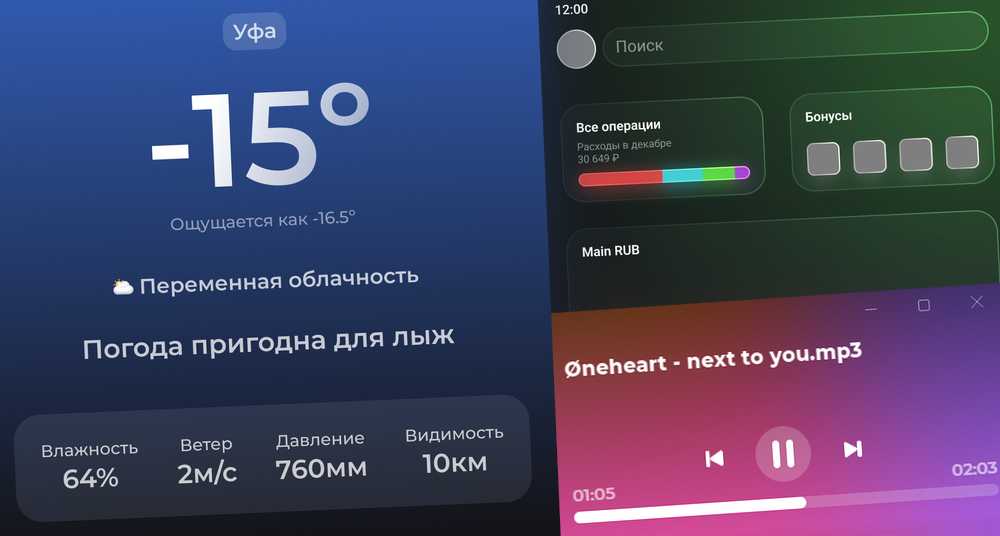
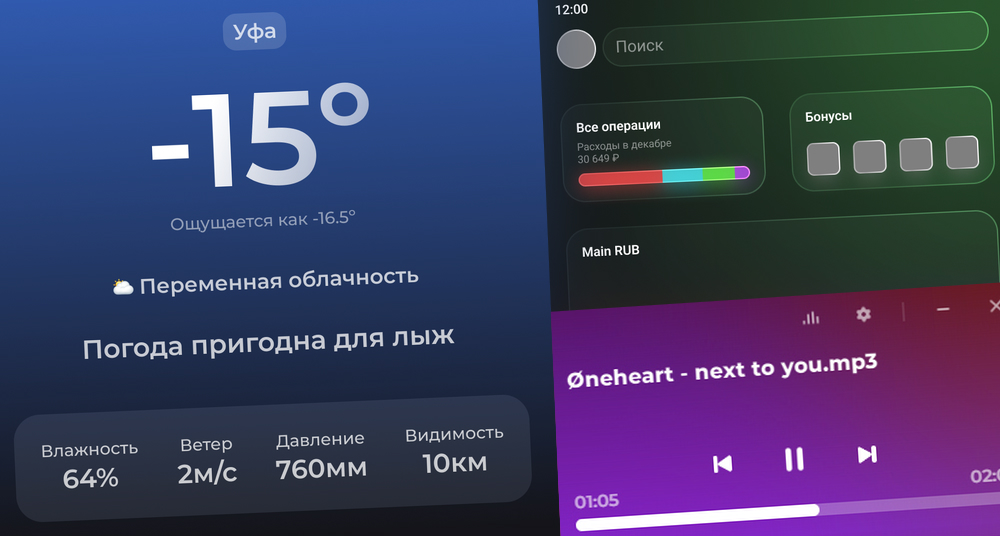
04052024-1613
Fixes:
- fixed sometimes cards don't tilt on mouse hover
- added 3d parallax effect to cards

Changed region(s): [[0.527, 0.5075, 1.0, 1.0]]

diff --git a/index.html b/index.html
@@ -82,29 +82,42 @@
 
 					<a class="bento-card panel btn-ripple tilt" href="https://github.com/immorrtalz/Harmoonic/releases/latest" target="_blank" data-tilt data-tilt-perspective="500">
 						<img loading="lazy" class="bento-card-image" src="./images/projects/harmoonic-screenshot.jpg">
-						<h5 class="bento-card-title gray-gradient">Harmoonic</h5>
-						<p class="bento-card-text second-text" data-translationid="14">Современный минималистичный аудиоплеер</p>
+						<span>
+							<h5 class="bento-card-title gray-gradient">Harmoonic</h5>
+							<p class="bento-card-text second-text" data-translationid="14">Современный минималистичный аудиоплеер</p>
+						</span>
 					</a>
 
 					<a class="bento-card panel btn-ripple tilt" href="https://trirun.evermedia-project.ru" target="_blank" data-tilt data-tilt-perspective="500">
 						<img loading="lazy" class="bento-card-image" src="./images/projects/gameImg-tr.jpg">
-						<h5 class="bento-card-title gray-gradient">TriRun</h5>
-						<p class="bento-card-text second-text" data-translationid="15">Мобильный раннер в космическом сеттинге</p>
+						<span>
+							<h5 class="bento-card-title gray-gradient">TriRun</h5>
+							<p class="bento-card-text second-text" data-translationid="15">Мобильный раннер в космическом сеттинге</p>
+						</span>
 					</a>
 
 					<a class="bento-card panel btn-ripple tilt" href="https://evermedia-project.itch.io/escape-stage" target="_blank" data-tilt data-tilt-perspective="500">
 						<img loading="lazy" class="bento-card-image" src="./images/projects/gameImg-es.jpg">
-						<h5 class="bento-card-title gray-gradient">Escape Stage</h5>
-						<p class="bento-card-text second-text" data-translationid="16">Хоррор-выживание в лаборатории</p>
+						<span>
+							<h5 class="bento-card-title gray-gradient">Escape Stage</h5>
+							<p class="bento-card-text second-text" data-translationid="16">Хоррор-выживание в лаборатории</p>
+						</span>
 					</a>
 
 					<a class="bento-card panel btn-ripple tilt" target="_blank" data-tilt data-tilt-perspective="500">
 						<img loading="lazy" class="bento-card-image" src="./images/projects/placeholder.jpg">
-						<h5 class="bento-card-title gray-gradient">???</h5>
-						<p class="bento-card-text second-text" data-translationid="17">Скоро... или не скоро...</p>
+						<span>
+							<h5 class="bento-card-title gray-gradient">???</h5>
+							<p class="bento-card-text second-text" data-translationid="17">Скоро... или не скоро...</p>
+						</span>
 					</a>
 
 				</div>
+
+				<a class="cccard tilt" data-tilt>
+					<span></span>
+					<span></span>
+				</a>
 
 			</div>
 		</div>
@@ -119,26 +132,34 @@
 
 					<a class="bento-card panel btn-ripple tilt" href="https://t.me/immorrtalz_design" target="_blank" data-tilt data-tilt-perspective="500">
 						<img loading="lazy" class="bento-card-image" src="./images/projects/designImg-banner.jpg">
-						<h5 class="bento-card-title gray-gradient" data-translationid="20">Баннер</h5>
-						<p class="bento-card-text second-text" data-translationid="21">Форумный/рекламный и др.</p>
+						<span>
+							<h5 class="bento-card-title gray-gradient" data-translationid="20">Баннер</h5>
+							<p class="bento-card-text second-text" data-translationid="21">Форумный/рекламный и др.</p>
+						</span>
 					</a>
 
 					<a class="bento-card panel btn-ripple tilt" href="https://t.me/immorrtalz_design" target="_blank" data-tilt data-tilt-perspective="500">
 						<img loading="lazy" class="bento-card-image" src="./images/projects/designImg-ava.jpg">
-						<h5 class="bento-card-title gray-gradient" data-translationid="22">Аватарка</h5>
-						<p class="bento-card-text second-text" data-translationid="23">Для любого профиля</p>
+						<span>
+							<h5 class="bento-card-title gray-gradient" data-translationid="22">Аватарка</h5>
+							<p class="bento-card-text second-text" data-translationid="23">Для любого профиля</p>
+						</span>
 					</a>
 
 					<a class="bento-card panel btn-ripple tilt" href="https://t.me/immorrtalz_design" target="_blank" data-tilt data-tilt-perspective="500">
 						<img loading="lazy" class="bento-card-image" src="./images/projects/designImg-landing.jpg">
-						<h5 class="bento-card-title gray-gradient" data-translationid="24">Лендинг</h5>
-						<p class="bento-card-text second-text" data-translationid="25">Макет небольшого сайта</p>
+						<span>
+							<h5 class="bento-card-title gray-gradient" data-translationid="24">Лендинг</h5>
+							<p class="bento-card-text second-text" data-translationid="25">Макет небольшого сайта</p>
+						</span>
 					</a>
 
 					<a class="bento-card panel btn-ripple tilt" href="https://t.me/immorrtalz_design" target="_blank" data-tilt data-tilt-perspective="500">
 						<img loading="lazy" class="bento-card-image" src="./images/projects/designImg-ui.jpg">
-						<h5 class="bento-card-title gray-gradient">UI</h5>
-						<p class="bento-card-text second-text" data-translationid="26">Макет интерфейса приложения</p>
+						<span>
+							<h5 class="bento-card-title gray-gradient">UI</h5>
+							<p class="bento-card-text second-text" data-translationid="26">Макет интерфейса приложения</p>
+						</span>
 					</a>
 
 				</div>
@@ -165,7 +186,7 @@
 						<a class="footer-1-inner-block-item second-text" data-translationid="35">Privacy Policy</a>
 						<a class="footer-1-inner-block-item second-text" data-translationid="36">Terms & Conditions</a>
 						<a class="footer-1-inner-block-item second-text" href="https://t.me/immorrtalz" target="_blank" data-translationid="29">* Заказать дизайн</a>
-						<a class="footer-1-inner-block-item second-text" href="./donate" target="_blank" data-translationid="50">❤Поддержать⚡</a>
+						<a class="footer-1-inner-block-item second-text" href="./donate" data-translationid="50">❤Поддержать⚡</a>
 					</div>
 
 					<div class="footer-1-inner-block">

diff --git a/donate.html b/donate.html
@@ -82,26 +82,34 @@
 
 					<a class="bento-card panel btn-ripple tilt" href="https://www.tinkoff.ru/cf/5mIoVTb6Pyl" target="_blank" data-tilt data-tilt-perspective="500">
 						<img loading="lazy" class="bento-card-image" src="./images/donate/bank-cards.jpg">
-						<h5 class="bento-card-title gray-gradient" data-translationid="45">Картой</h5>
-						<p class="bento-card-text second-text" data-translationid="46">Любые банковские карты</p>
+						<span>
+							<h5 class="bento-card-title gray-gradient" data-translationid="45">Картой</h5>
+							<p class="bento-card-text second-text" data-translationid="46">Любые банковские карты</p>
+						</span>
 					</a>
 
 					<a class="bento-card panel btn-ripple tilt" onclick="copyToClipboard('bc1q7ywj3fj2z9lrh8p4ehr32xvkre7883mgp8ces4')" target="_blank" data-tilt data-tilt-perspective="500">
 						<img loading="lazy" class="bento-card-image" src="./images/donate/bitcoin.jpg">
-						<h5 class="bento-card-title gray-gradient">Bitcoin</h5>
-						<p class="bento-card-text second-text" data-translationid="49">Click to copy address</p>
+						<span>
+							<h5 class="bento-card-title gray-gradient">Bitcoin</h5>
+							<p class="bento-card-text second-text" data-translationid="49">Click to copy address</p>
+						</span>
 					</a>
 
 					<a class="bento-card panel btn-ripple tilt" onclick="copyToClipboard('TQqSkSpXFqHxrcKhAdZjpyt7CMpkkynZ2d')" target="_blank" data-tilt data-tilt-perspective="500">
 						<img loading="lazy" class="bento-card-image" src="./images/donate/usdt.jpg">
-						<h5 class="bento-card-title gray-gradient">USDT [TRC20]</h5>
-						<p class="bento-card-text second-text" data-translationid="49">Click to copy address</p>
+						<span>
+							<h5 class="bento-card-title gray-gradient">USDT [TRC20]</h5>
+							<p class="bento-card-text second-text" data-translationid="49">Click to copy address</p>
+						</span>
 					</a>
 
 					<a class="bento-card panel btn-ripple tilt" href="https://t.me/immorrtalz" target="_blank" data-tilt data-tilt-perspective="500">
 						<img loading="lazy" class="bento-card-image" src="./images/donate/telegram.jpg">
-						<h5 class="bento-card-title gray-gradient" data-translationid="47">Другое</h5>
-						<p class="bento-card-text second-text" data-translationid="48">Напиши в Telegram</p>
+						<span>
+							<h5 class="bento-card-title gray-gradient" data-translationid="47">Другое</h5>
+							<p class="bento-card-text second-text" data-translationid="48">Напиши в Telegram</p>
+						</span>
 					</a>
 
 				</div>
@@ -128,7 +136,7 @@
 						<a class="footer-1-inner-block-item second-text" data-translationid="35">Privacy Policy</a>
 						<a class="footer-1-inner-block-item second-text" data-translationid="36">Terms & Conditions</a>
 						<a class="footer-1-inner-block-item second-text" href="https://t.me/immorrtalz" target="_blank" data-translationid="29">* Заказать дизайн</a>
-						<a class="footer-1-inner-block-item second-text" href="./donate" target="_blank" data-translationid="50">❤Поддержать⚡</a>
+						<a class="footer-1-inner-block-item second-text" href="./donate" data-translationid="50">❤Поддержать⚡</a>
 					</div>
 
 					<div class="footer-1-inner-block">

diff --git a/css/styles.css b/css/styles.css
@@ -189,7 +189,7 @@
 
 	3%
 	{
-		transform: scale(1.2);
+		transform: scale(1.15);
 		opacity: 1;
 		filter: brightness(1.75);
 	}
@@ -433,12 +433,26 @@
 
 .bento-card
 {
+	width: 100%;
+	height: 100%;
+	backdrop-filter: none !important;
+	overflow: visible !important;
+	transform-style: preserve-3d;
+	-webkit-transform-style: preserve-3d;
+	transform: perspective(500px);
+}
+
+.bento-card span
+{
+	display: block;
+	width: 100%;
+	height: 100%;
 	padding: 2rem;
 	display: flex;
 	flex-direction: column;
 	flex-wrap: nowrap;
 	justify-content: flex-end;
-	overflow: clip;
+	transform: translateZ(35px) scale(0.95);
 }
 
 .bento-card:nth-child(1)
@@ -467,6 +481,7 @@
 	inset: 0 0 0 auto;
 	width: 100%;
 	height: 100%;
+	border-radius: inherit;
 	object-fit: cover;
 	object-position: center center;
 	opacity: 0.85;
@@ -669,24 +684,26 @@
 		font-size: 14px;
 	}
 
-	.bento-card
+	.bento-card span
 	{
 		padding: 1.5rem;
 	}
 
 	.footer-1
 	{
+		margin-top: 2rem;
 		margin-bottom: 3rem;
+		width: 90%;
+	}
+
+	.footer-1-inner
+	{
+		width: 70%;
 	}
 
 	.footer-logo
 	{
 		width: 18vw;
-	}
-	
-	.footer-1-inner
-	{
-		width: 70%;
 	}
 	
 	.footer-1-inner-block-title
@@ -752,7 +769,7 @@
 		font-size: 120%;
 	}
 
-	.bento-card
+	.bento-card span
 	{
 		padding: 1.5rem;
 	}
@@ -815,7 +832,7 @@
 
 	.footer-1-inner
 	{
-		width: 77%;
+		width: 75%;
 	}
 	
 	.footer-1-inner-block-title
@@ -828,6 +845,11 @@
 	{
 		font-size: 65%;
 		margin-bottom: 0.35rem;
+	}
+
+	.footer-1-inner-block-rowcontainer
+	{
+		max-width: 6rem;
 	}
 
 	.footer-1-inner-block-rowcontainer-item
@@ -889,7 +911,7 @@
 		gap: 15px;
 	}
 
-	.bento-card
+	.bento-card span
 	{
 		padding: 1rem;
 	}
@@ -931,5 +953,11 @@
 	{
 		line-height: 40px;
 		font-size: 75%;
+	}
+	
+
+	.footer-1-inner-block-item
+	{
+		font-size: 60%;
 	}
 }

diff --git a/js/tilt.jquery.js b/js/tilt.jquery.js
@@ -116,13 +116,16 @@
 			const height = $(this).outerHeight();
 			const left = $(this).offset().left;
 			const top = $(this).offset().top;
-			const percentageX = (this.mousePositions.x - left) / width;
-			const percentageY = (this.mousePositions.y - top) / height;
+
+			var _mousePositions = this.mousePositions ? this.mousePositions : {x: 0, y: 0};
+
+			const percentageX = (_mousePositions.x - left) / width;
+			const percentageY = (_mousePositions.y - top) / height;
 			// x or y position inside instance / width of instance = percentage of position inside instance * the max tilt value
 			const tiltX = ((this.settings.maxTilt / 2) - ((percentageX) * this.settings.maxTilt)).toFixed(2);
 			const tiltY = (((percentageY) * this.settings.maxTilt) - (this.settings.maxTilt / 2)).toFixed(2);
 			// angle
-			const angle = Math.atan2(this.mousePositions.x - (left+width/2),- (this.mousePositions.y - (top+height/2)) )*(180/Math.PI);
+			const angle = Math.atan2(_mousePositions.x - (left+width/2),- (_mousePositions.y - (top+height/2)) )*(180/Math.PI);
 			// Return x & y tilt values
 			return {tiltX, tiltY, 'percentageX': percentageX * 100, 'percentageY': percentageY * 100, angle};
 		};

diff --git a/js/loadingscreen.js b/js/loadingscreen.js
@@ -1,19 +1,3 @@
-/* $("body").css("overflow", "hidden");
-
-$(window).on('load', function() {
-	var preloaderFadeOutTime = 500;
-	function hidePreloader()
-	{
-		var preloader = $('.loading-container');
-		preloader.css("top", window.scrollY + 1);
-		setTimeout(function() {
-			preloader.fadeOut(preloaderFadeOutTime);
-			$("body").css("overflow", "auto");
-		}, 750);
-	}
-	hidePreloader();
-}) */
-
 function onReady(callback)
 {
 	var intervalId = window.setInterval(() =>
@@ -28,7 +12,7 @@ function onReady(callback)
 
 function setVisible(selector, visible)
 {
-	if (!visible)
+	if (visible == false)
 	{
 		document.querySelector(selector).style.opacity = '0';
 
@@ -43,7 +27,7 @@ function setVisible(selector, visible)
 onReady(() =>
 {
 	document.body.style.overflow = 'visible';
+	initialize();
 	setVisible('.page', true);
 	setVisible('.loading', false);
-	initialize();
 });
